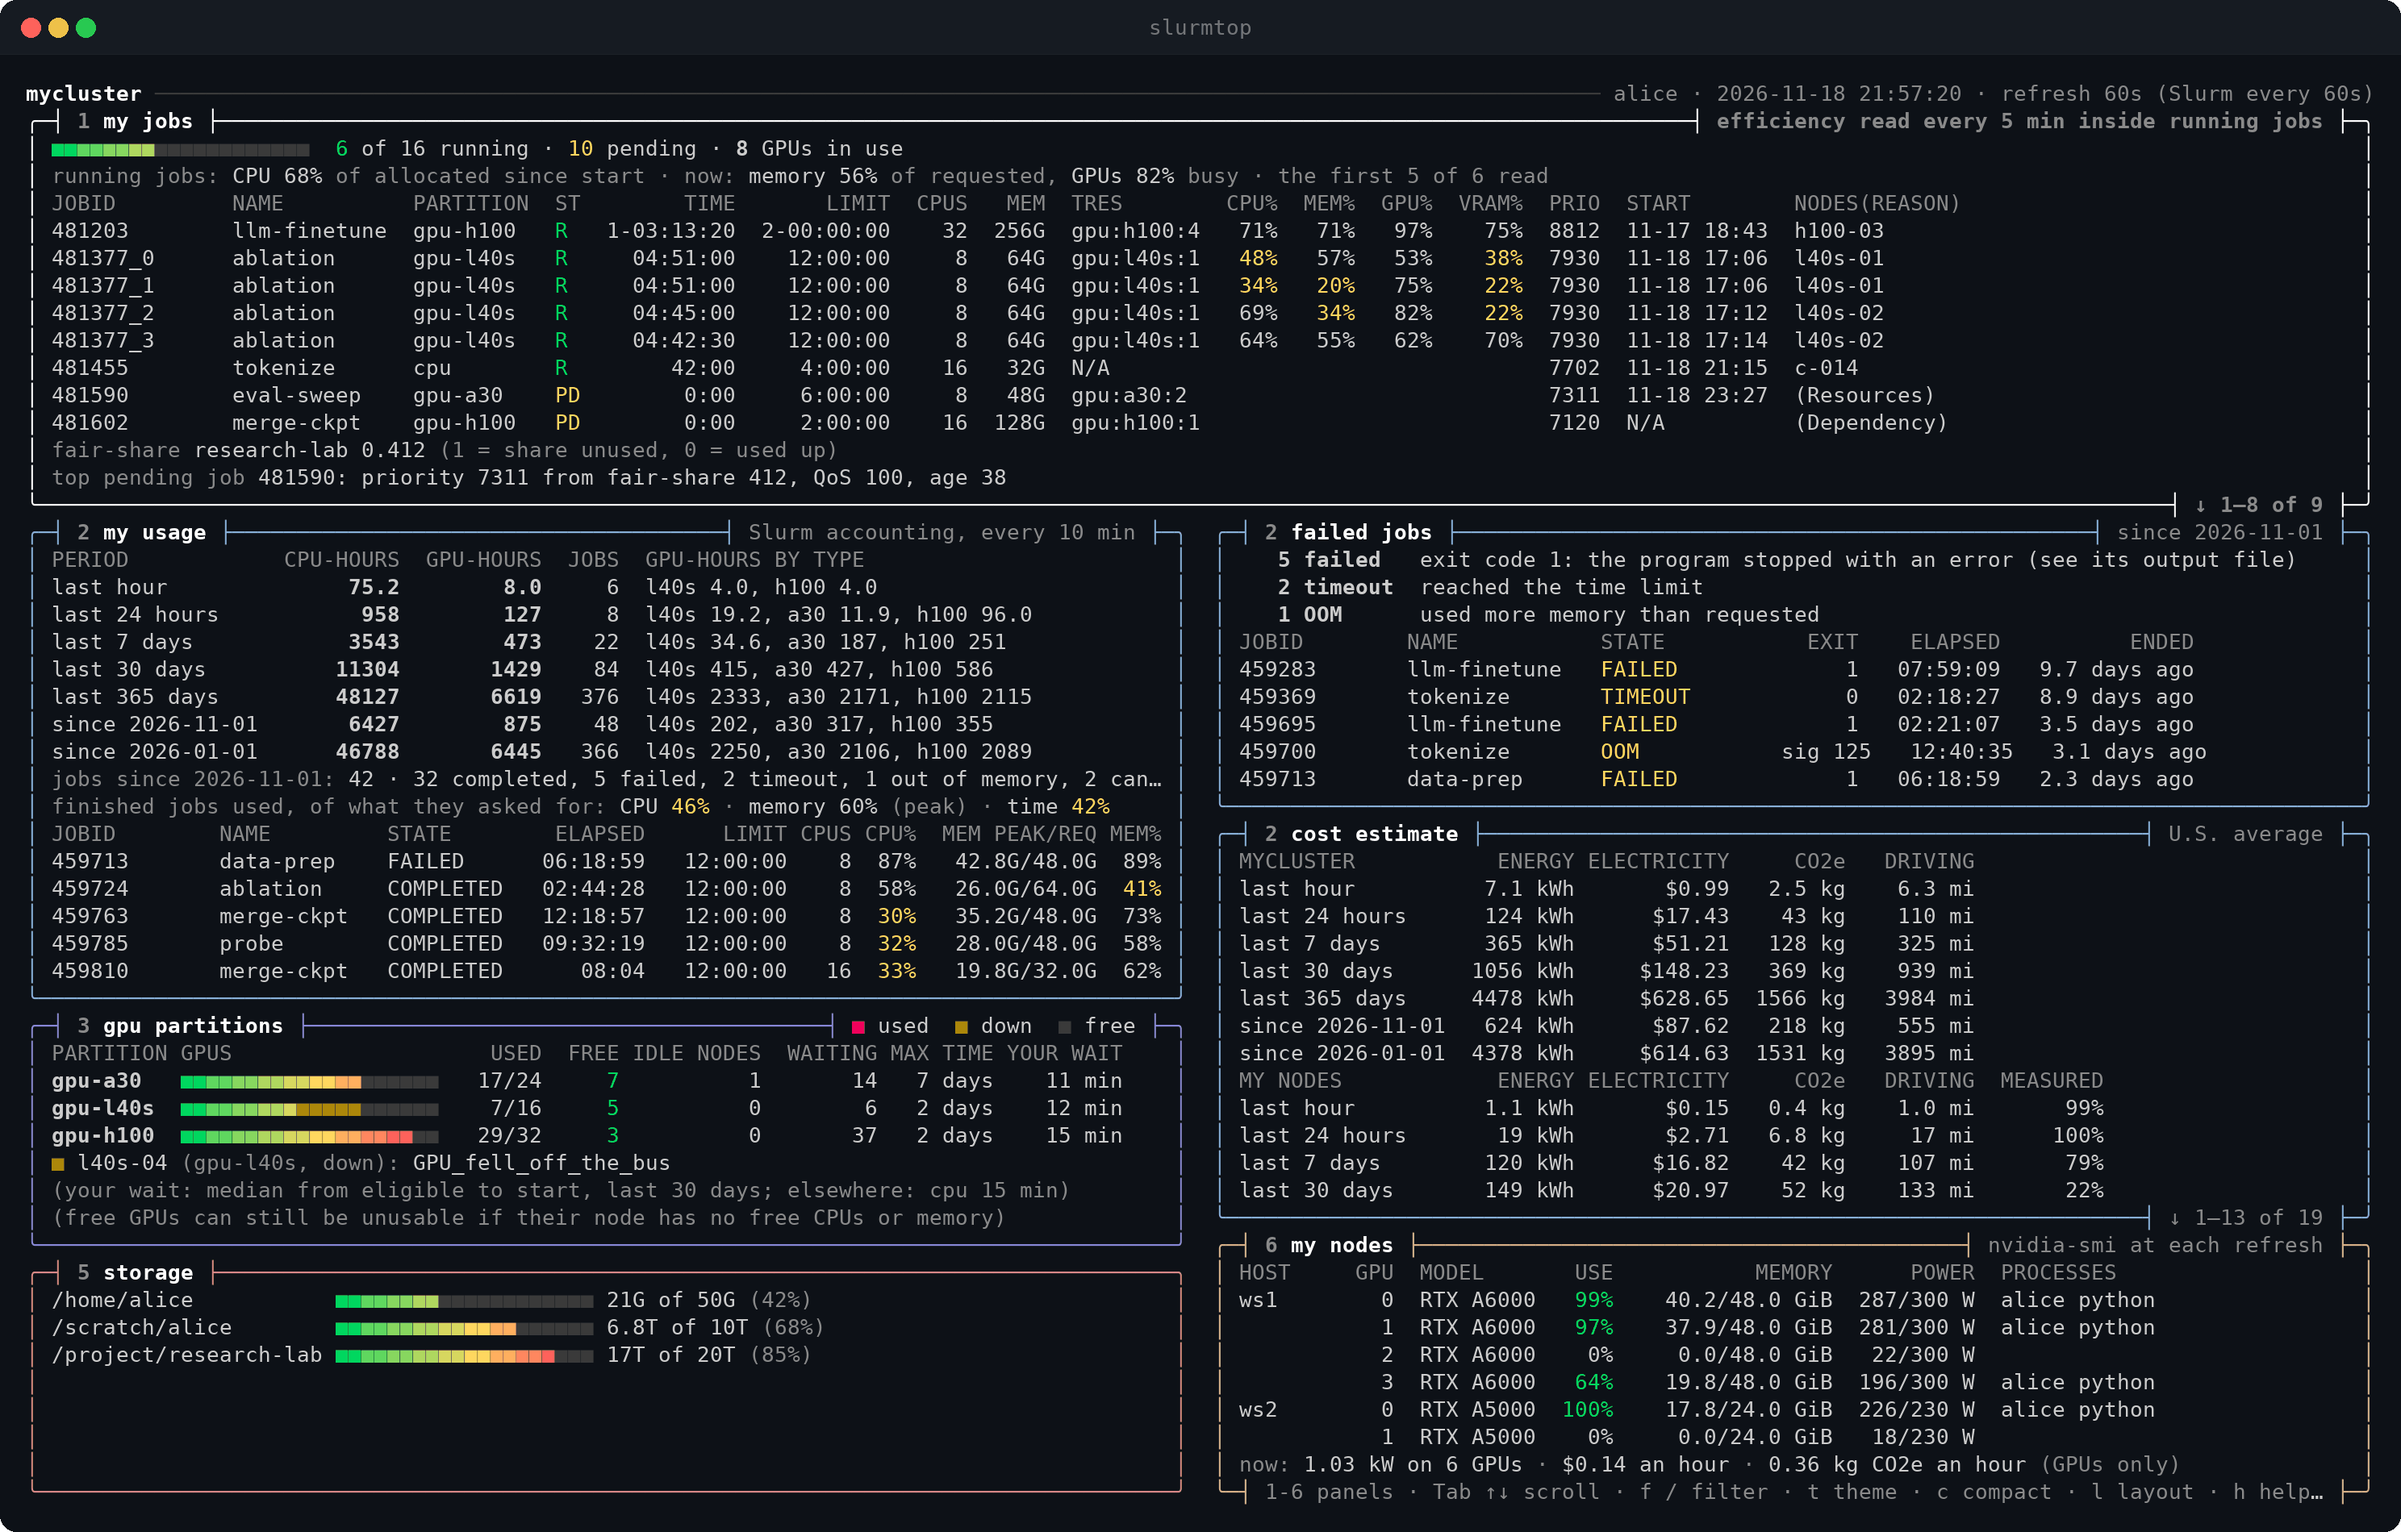
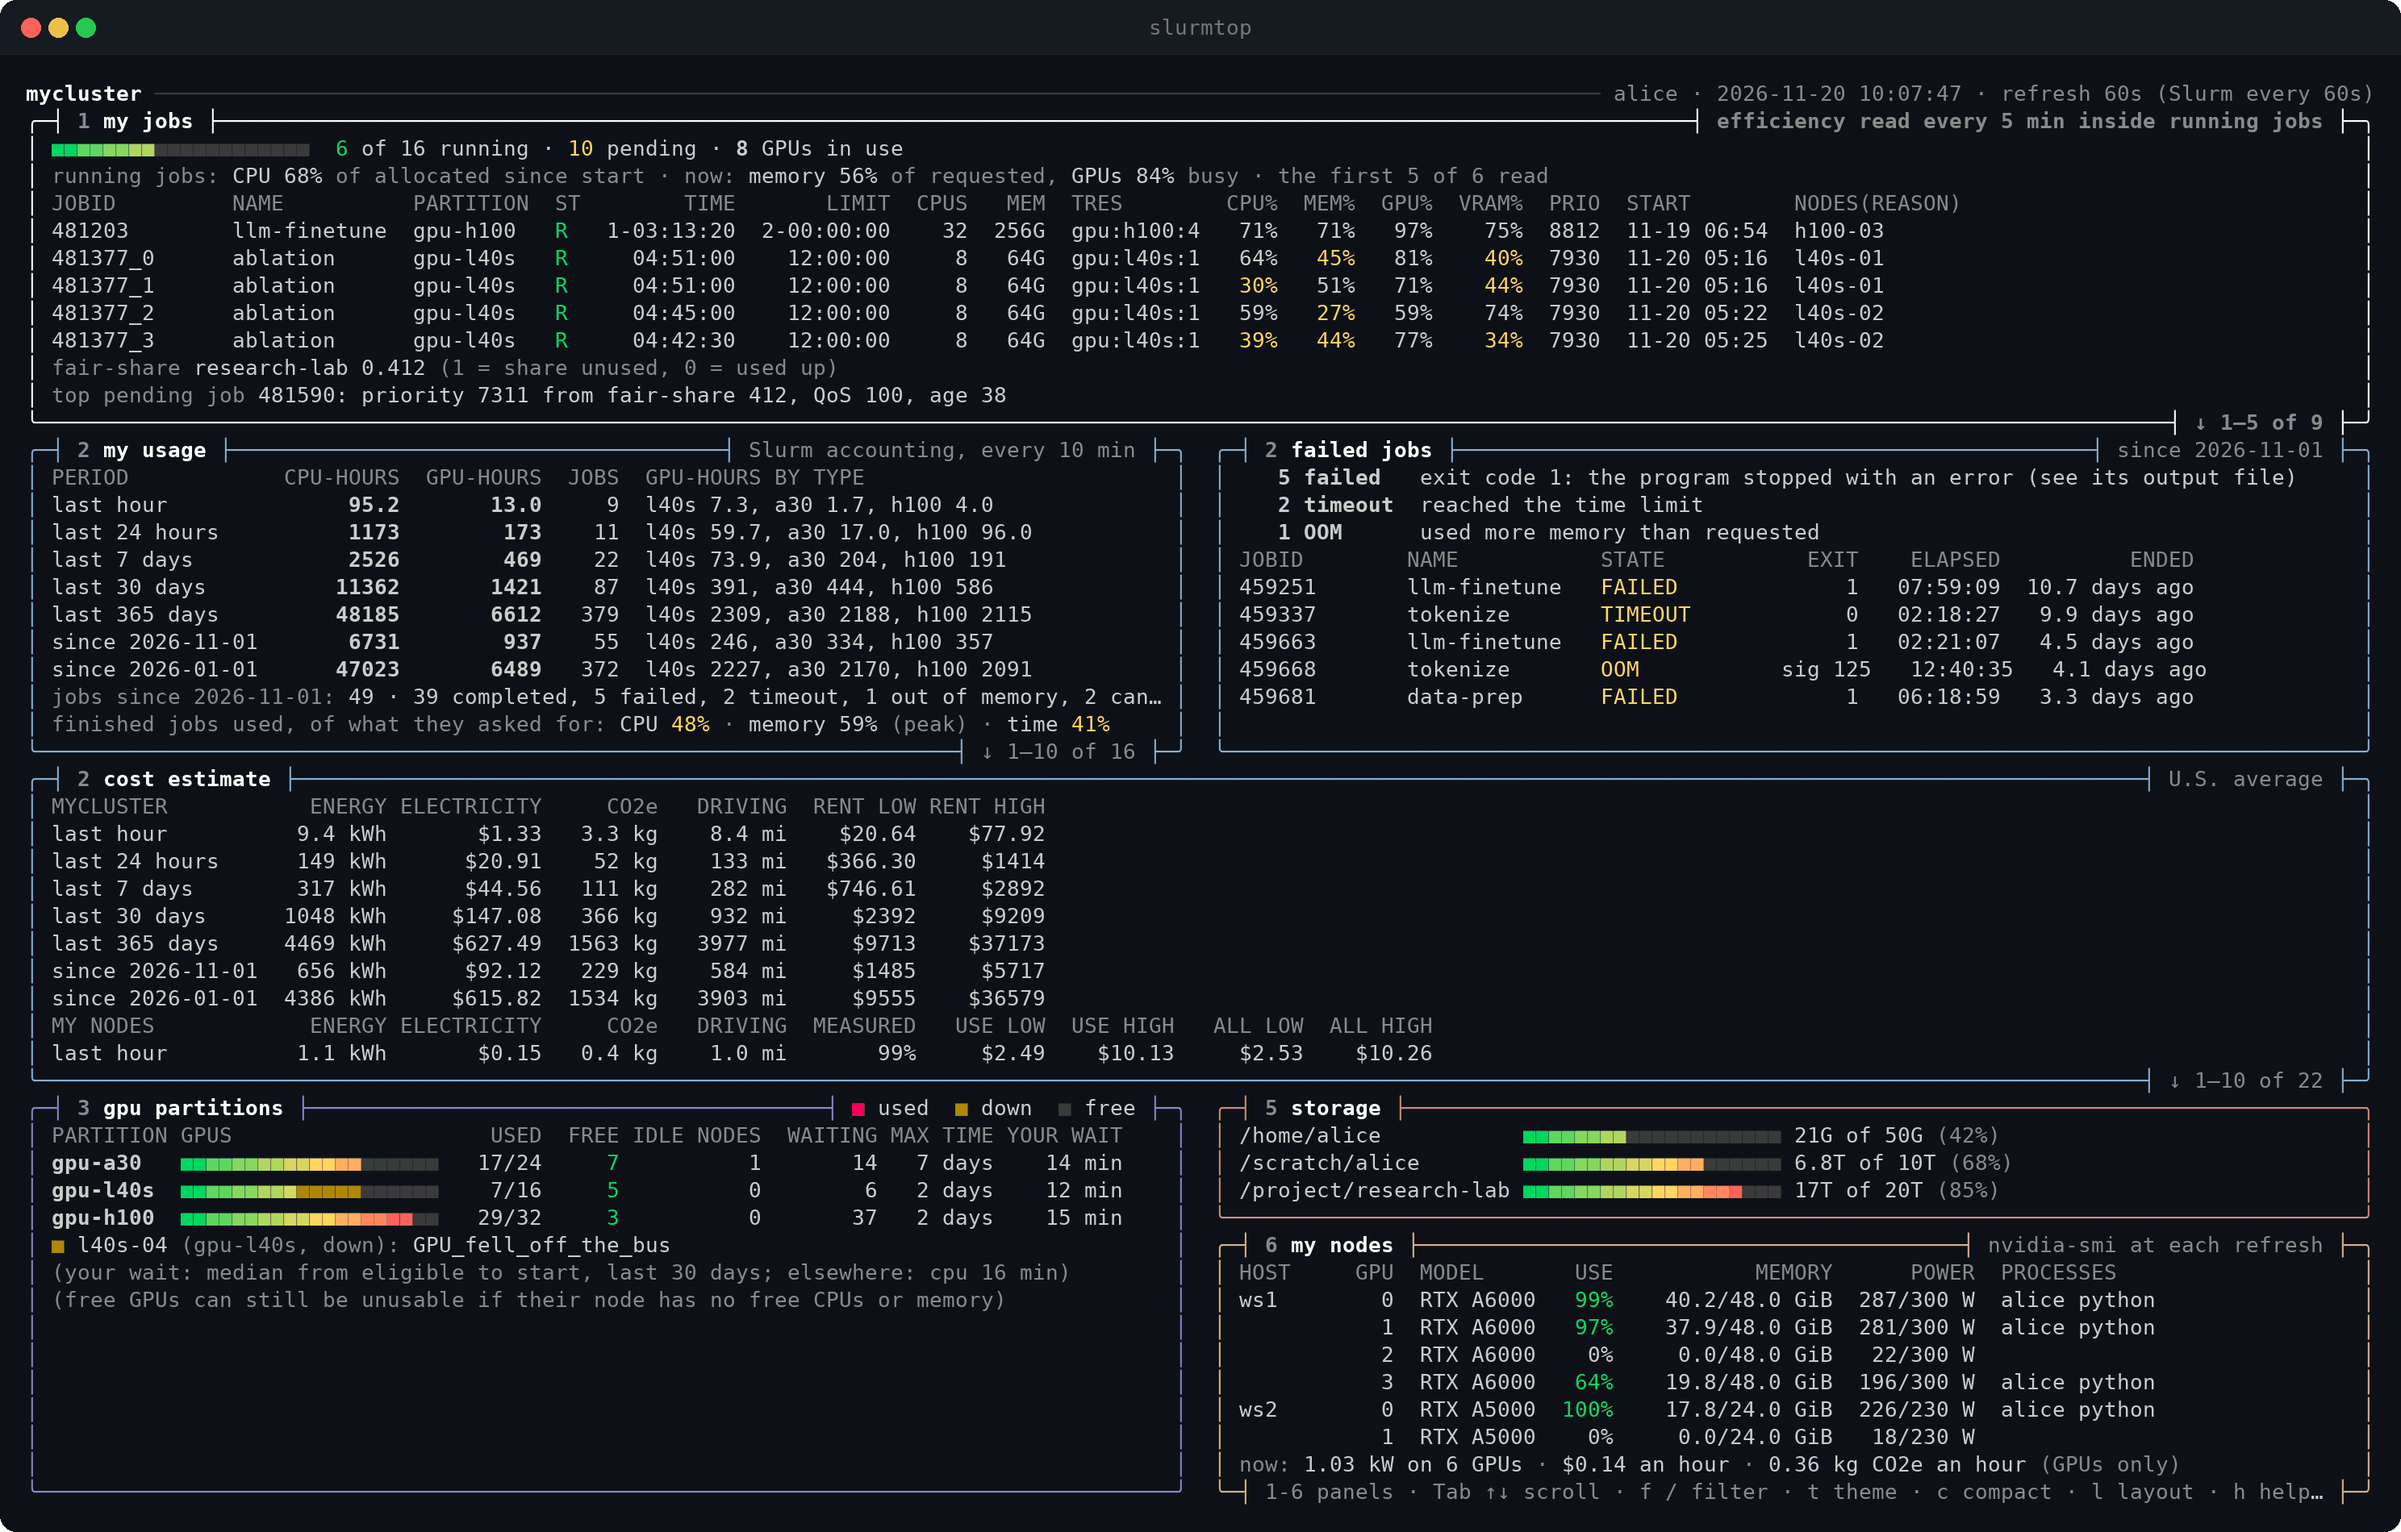
Add a cloud rental price range to the cost estimate
The cost card prices the cluster's GPU and CPU time at the lowest and
highest on-demand cloud prices found across twelve providers, and your own
machines' GPUs for the time a process ran on them and for all the time
measured. The energy log records each GPU model's GPU-seconds and those in
use; the probe reads how long each GPU process has run. Cluster price lists
move to COST_RATES, one column each.

diff --git a/README.md b/README.md
@@ -13,7 +13,7 @@ Six panels, each shown or hidden with its number key, like in `btop`:
 | Key | Panel | Shown by default | What it shows |
 |-----|-------|------------------|---------------|
 | `1` | my jobs | yes | Your jobs, including job arrays: state, run time, time limit, CPUs, memory, GPUs, priority, expected start, and the nodes or the reason a job is waiting. For each running job, its CPU use since it started, and its memory, GPU, and GPU memory (VRAM) use now, against what it was given. The fair-share of your accounts, and what the priority of your top pending job is made of |
-| `2` | my usage | yes | CPU-hours, GPU-hours (also by GPU type) and jobs for the last hour, 24 hours, 7, 30, and 365 days, this month, and this year; this month's jobs by final state; how much of the allocated CPU time, the requested memory, and the time limit your finished jobs used, with the latest finished jobs listed (like `seff`); this month's failed jobs grouped by cause (exit code, signal, time limit, memory, node failure), with the latest ones; and a cost estimate (see below) |
+| `2` | my usage | yes | CPU-hours, GPU-hours (also by GPU type) and jobs for the last hour, 24 hours, 7, 30, and 365 days, this month, and this year; this month's jobs by final state; how much of the allocated CPU time, the requested memory, and the time limit your finished jobs used, with the latest finished jobs listed (like `seff`); this month's failed jobs grouped by cause (exit code, signal, time limit, memory, node failure), with the latest ones; and a cost estimate, with what renting the same from a cloud would cost (see below) |
 | `3` | GPU partitions | yes | GPUs used, down, and free, idle nodes, how many jobs are waiting (other users' jobs appear only as counts), the time limit, the median time your jobs waited to start there in the last 30 days, and why nodes are down or draining |
 | `4` | limits | no | Limits of your accounts, and the time and size limits of the QoS they may use |
 | `5` | storage | yes | Space used on the paths you choose |
@@ -136,9 +136,10 @@ The ssh connection is opened once and kept for 15 minutes, so later refreshes ar
 ### Cost estimate
 
 The cost card of panel 2 estimates, for each period of my usage, the energy your jobs used,
-what that electricity cost, its emissions (CO2e), and the same emissions as miles driven. The
-values are set at the top of the script (`COST_...`) to U.S. averages; change them for your
-site. They come from:
+what that electricity cost, its emissions (CO2e), the same emissions as miles driven, and what
+renting the same GPUs and CPU cores from a cloud would cost, from the lowest to the highest
+price found. The values are set at the top of the script (`COST_...`) to U.S. averages and
+cloud list prices in dollars; change them for your site. They come from:
 
 | Value | Used | Source |
 |-------|------|--------|
@@ -147,20 +148,60 @@ site. They come from:
 | Electricity price | 14.04 cents/kWh | [EIA Electric Power Monthly, table 5.6.B](https://www.eia.gov/electricity/monthly/epm_table_grapher.php?t=epmt_5_06_b), U.S. commercial average, January to August 2026 |
 | Emission rate | 349.67 kg CO2e/MWh | [EPA eGRID2023](https://www.epa.gov/egrid/summary-data) (revision 2), U.S. total output emission rate, 770.884 lb/MWh |
 | Driving | 393 g CO2e/mile | [EPA Greenhouse Gas Equivalencies Calculator](https://www.epa.gov/energy/greenhouse-gas-equivalencies-calculator-calculations-and-references), average gasoline passenger vehicle |
+| Cloud rental prices | the lowest and the highest on-demand price found (RENT LOW, RENT HIGH) | twelve providers' own price pages (see below) |
 
 For a closer estimate, set the price of your state (the same EIA table) and the emission rate
 of your grid region (EPA's [Power Profiler](https://www.epa.gov/egrid/power-profiler) finds it
-by ZIP code). Set `COST_RATE1` and `COST_RATE2` to your cluster's prices per core-hour and per
-GPU-hour of each GPU type, and `COST_RATE1_NAME` and `COST_RATE2_NAME` to name them, to add
-what the compute time costs as one or two more columns.
+by ZIP code). Set `COST_RATES` to your cluster's prices per core-hour and per GPU-hour of each
+GPU type, to add what the compute time costs there, a column for each price list:
+
+```sh
+COST_RATES="INTERNAL: cpu=0.004 a100=0.20; EXTERNAL: cpu=0.01 a100=0.60"
+```
+
+`COST_RENT_LOW` and `COST_RENT_HIGH` have the lowest and highest cloud prices, as
+`cpu=PRICE TYPE=PRICE ...`. Add the GPU types of your cluster that are missing, by their Slurm
+name (`gres/gpu:TYPE`), and your own machines' GPU models (see below).
+
+#### Cloud rental prices
+
+On-demand list prices on each provider's own price page, November 20, 2026, in dollars per
+GPU-hour: data-center offers, at the provider's cheapest configuration, per GPU. A GPU comes
+with CPU cores and memory, which the price includes.
+
+| GPU | Lowest | Highest | Also listed |
+|-----|--------|---------|-------------|
+| H100 SXM | $3.14 Massed Compute | $12.29 Azure (`ND96isr_H100_v5`, 8 GPUs) | Hyperstack $3.20, Jarvislabs $3.49, RunPod $4.39, Lambda $4.59, Paperspace $5.95, CoreWeave $6.155, AWS $6.88, Oracle $10.00, Google Cloud $11.06 |
+| L40S | $0.97 Massed Compute | $3.50 Oracle | RunPod $1.09, E2E Networks $1.20, AWS $1.861, CoreWeave $2.25 |
+| A30 | $0.35 Massed Compute | $1.35 E2E Networks | Jarvislabs $0.41 |
+| RTX A6000 | $0.50 Hyperstack | $1.89 Paperspace | Massed Compute $0.55, RunPod $0.69, Lambda $1.09 |
+| RTX A5000 | $0.27 RunPod | $1.38 Paperspace | Massed Compute $0.44 |
+| T4 | $0.45 E2E Networks | $0.526 AWS, Azure | |
+| CPU core-hour | $0.034 Oracle (E5, an OCPU with 2 GB) | $0.075 Google Cloud (`c3d-highcpu-4`, 2 cores) | AWS $0.05132 (`c7a.medium`), Azure $0.0605 (`F2als_v6`) |
+
+A CPU core is a physical core of a 4th-generation AMD EPYC, the generation of the 9454: one
+vCPU on AWS [C7a](https://aws.amazon.com/ec2/instance-types/c7a/) and Azure
+[Falsv6](https://learn.microsoft.com/en-us/azure/virtual-machines/sizes/compute-optimized/fasv6-series),
+two on Google Cloud C3D, and one Oracle OCPU. Community and marketplace hosts, spot instances,
+and reservations cost less.
+
+Sources: [AWS](https://aws.amazon.com/ec2/pricing/on-demand/) (US East, N. Virginia),
+[Azure](https://azure.microsoft.com/en-us/pricing/details/virtual-machines/linux/) (East US),
+[Google Cloud](https://cloud.google.com/products/compute/pricing/accelerator-optimized) (Iowa,
+also [general-purpose](https://cloud.google.com/products/compute/pricing/general-purpose)),
+[Oracle](https://www.oracle.com/cloud/price-list/), [Lambda](https://lambda.ai/pricing),
+[RunPod](https://www.runpod.io/pricing) (Secure Cloud), [CoreWeave](https://www.coreweave.com/pricing),
+[Massed Compute](https://massedcompute.com/pricing/), [Jarvislabs](https://jarvislabs.ai/pricing),
+[Paperspace](https://www.paperspace.com/pricing), [Hyperstack](https://www.hyperstack.cloud/gpu-pricing),
+and [E2E Networks](https://www.e2enetworks.com/pricing).
 
 How it is counted:
 
 - Energy assumes CPU cores and GPUs draw their rated power for the time they are allocated,
   which overstates idle or lightly used GPUs; memory, disks, and networking are left out.
   The total is multiplied by the PUE for cooling and power losses in the data center.
-- When rates are set, GPU jobs are priced per GPU-hour and CPU-only jobs per core-hour. GPU
-  types without a rated power or a rate are named below the table and left out of that figure.
+- GPU jobs are priced per GPU-hour of each GPU type and CPU-only jobs per core-hour. GPU types
+  without a rated power or a price are named below the table and left out of that figure.
 - Your own machines are counted as they were measured (see below), without PUE. The MEASURED
   column shows how much of the period was measured.
 
@@ -174,7 +215,8 @@ export SLURMTOP_MYNODES="gpu1 gpu2 $(hostname -s)"
 ```
 
 The energy they use is logged in `~/.local/state/slurmtop/power.tsv`, in spans of about an
-hour (`START END HOST GPU-JOULES CPU-JOULES`, times in epoch seconds), for the cost card:
+hour, for the cost card, as `START END HOST GPU-JOULES CPU-JOULES GPU-TIME` (times in epoch
+seconds; `GPU-TIME` is `MODEL:SECONDS:IN-USE` for each GPU model, in GPU-seconds):
 
 - GPUs: the energy counters that the NVIDIA driver keeps for each GPU from the time the machine
   started (read through NVML). Two readings give the energy used between them exactly, however
@@ -189,6 +231,12 @@ hour (`START END HOST GPU-JOULES CPU-JOULES`, times in epoch seconds), for the c
   only. This leaves out the power an idle CPU still draws, so it is low for machines that are
   mostly idle; measuring the CPUs directly needs root.
 - Memory, disks, fans, and power-supply losses are not counted.
+- Renting: at the lowest and highest cloud price of their GPU models (found by a word of the
+  model name, such as `a6000` in `NVIDIA RTX A6000`), USE for the time a process was on the
+  GPU, and ALL for every GPU for all the time measured, which is what renting the same machines
+  full time would cost. A GPU is in use from when the oldest process on it at a
+  reading started, so a process that starts and ends between two readings is missed, and the
+  first reading after a machine started finds only the processes running then.
 
 Every slurmtop that runs adds its readings, and `slurmtop --log` from cron adds one each time
 it runs, so the log keeps going when no slurmtop is open; each reading counts from the last
